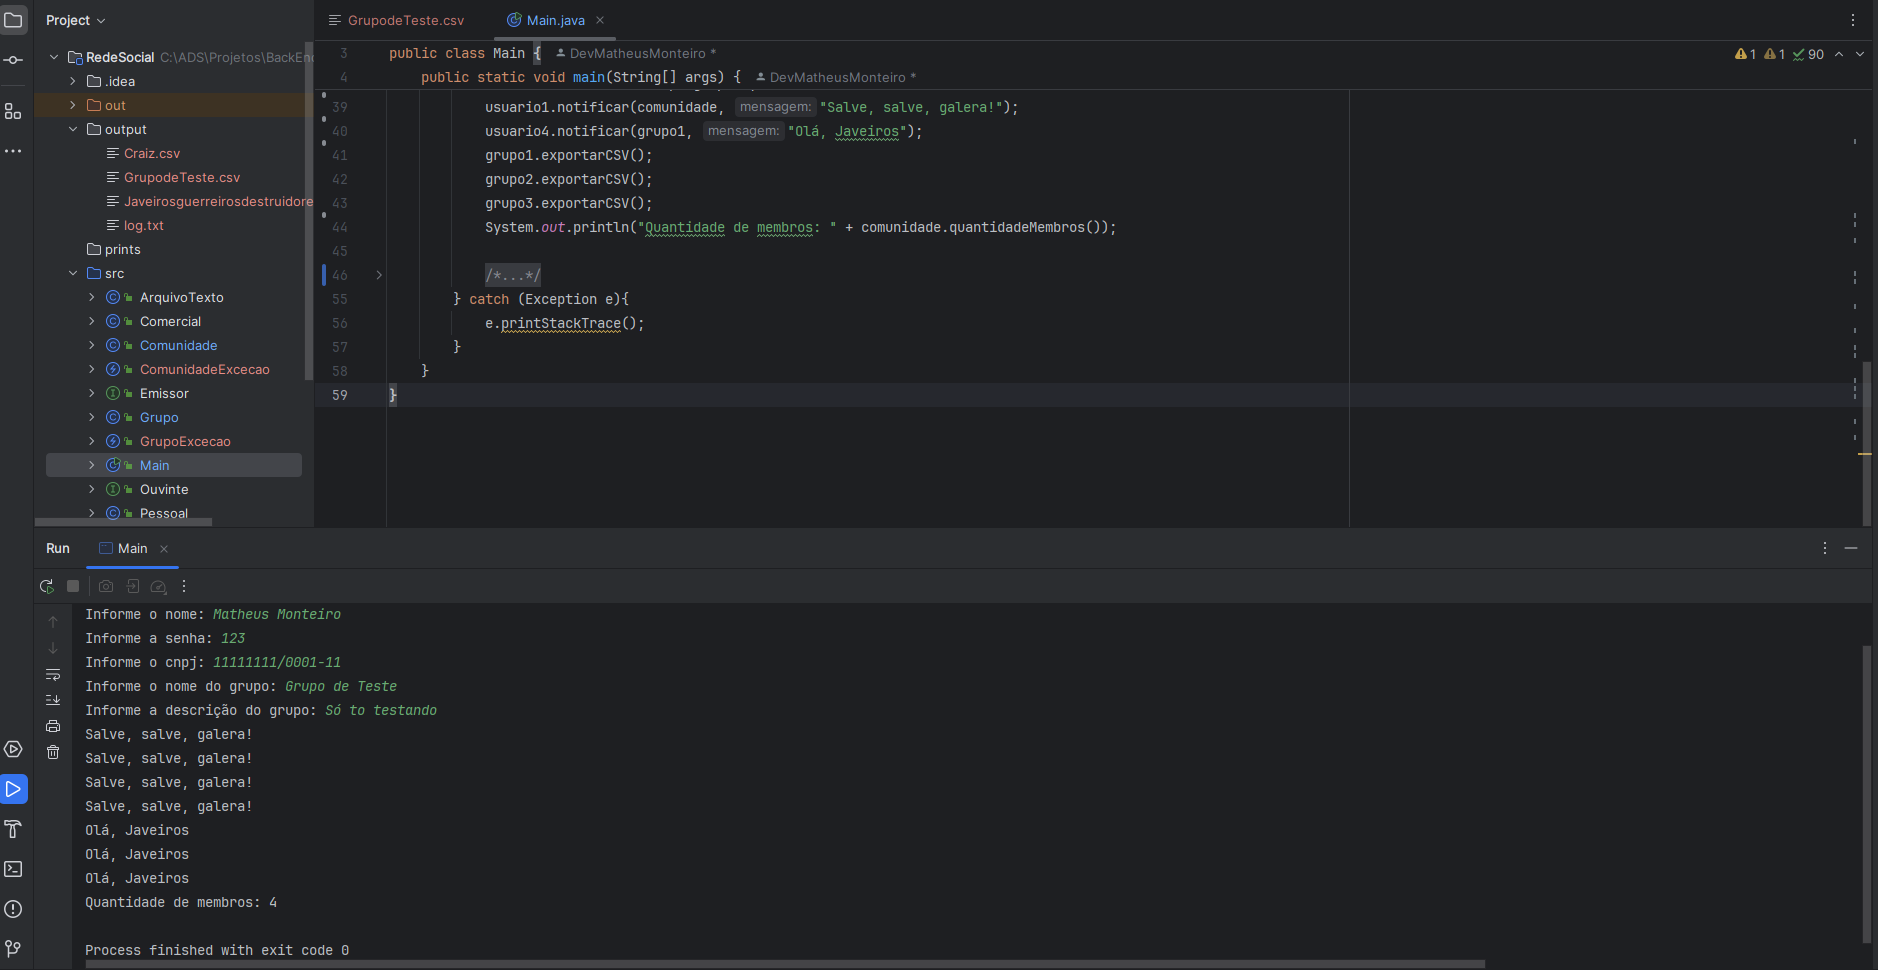
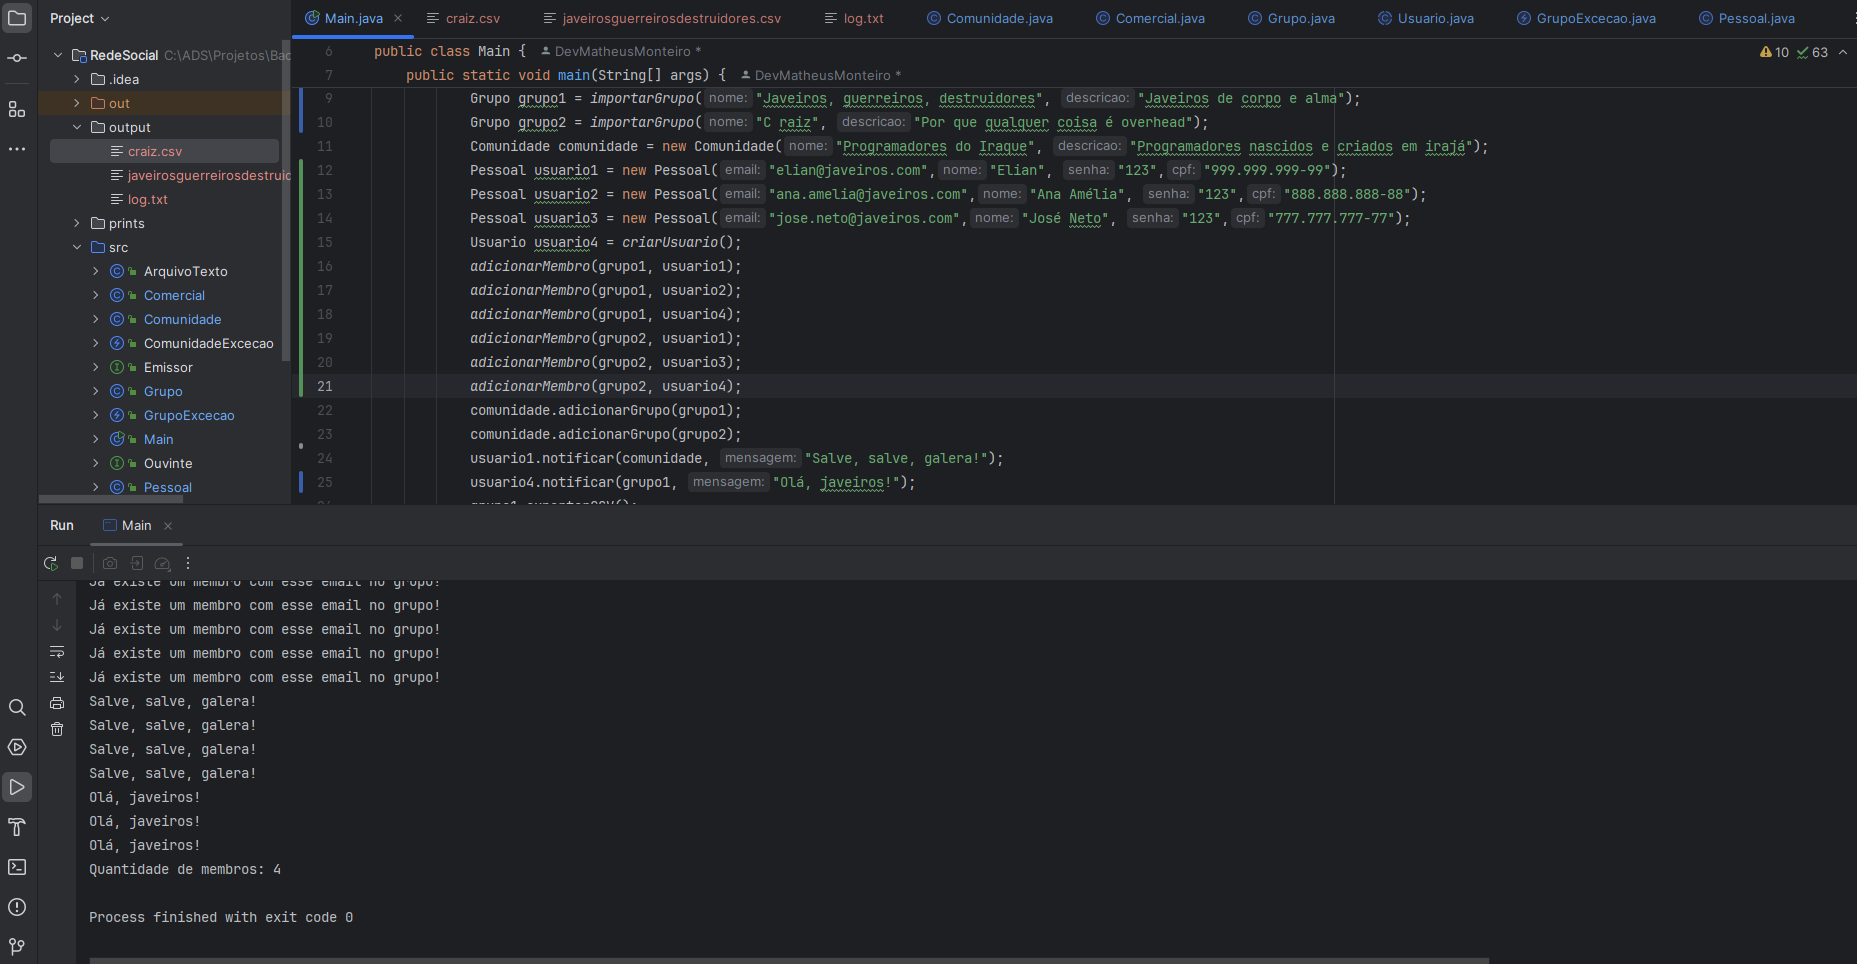
refactoring exportCSV and exceptions

diff --git a/src/Main.java b/src/Main.java
@@ -1,59 +1,149 @@
+import javax.xml.crypto.dsig.spec.XSLTTransformParameterSpec;
+import java.io.IOException;
+import java.util.InputMismatchException;
 import java.util.Scanner;
 
 public class Main {
     public static void main(String[] args) {
-
         try {
-            Pessoal usuario1 = new Pessoal("elian@javeiros.com","Elian", "123", "999.999.999-99");
-            Pessoal usuario2 = new Pessoal("ana.amelia@javeiros.com","Ana Amélia", "123", "888.888.888-88");
-            Pessoal usuario3 = new Pessoal("jose.neto@javeiros.com","José Neto", "123", "777.777.777-77");
-            Scanner sc = new Scanner(System.in);
-            System.out.print("Informe o email: ");
-            String email = sc.nextLine();
-            System.out.print("Informe o nome: ");
-            String nome = sc.nextLine();
-            System.out.print("Informe a senha: ");
-            String senha = sc.nextLine();
-            System.out.print("Informe o cnpj: ");
-            String cnpj = sc.nextLine();
-            Comercial usuario4 = new Comercial(email,nome, senha, cnpj);
-            Grupo grupo1 = new Grupo("Javeiros, guerreiros, destruidores", "Javeiros de corpo e alma");
-            Grupo grupo2 = new Grupo("C raiz", "Porque qualquer outra coisa é overhead");
-            System.out.print("Informe o nome do grupo: ");
-            String nomeGrupo = sc.nextLine();
-            System.out.print("Informe a descrição do grupo: ");
-            String descricaoGrupo = sc.nextLine();
-            Grupo grupo3 = new Grupo(nomeGrupo, descricaoGrupo);
-            grupo1.adicionarMembro(usuario1);
-            grupo1.adicionarMembro(usuario2);
-            grupo1.adicionarMembro(usuario4);
-            grupo2.adicionarMembro(usuario1);
-            grupo2.adicionarMembro(usuario3);
-            grupo2.adicionarMembro(usuario4);
-            grupo3.adicionarMembro(usuario3);
-            grupo3.adicionarMembro(usuario4);
+            Grupo grupo1 = importarGrupo("Javeiros, guerreiros, destruidores", "Javeiros de corpo e alma");
+            Grupo grupo2 = importarGrupo("C raiz", "Por que qualquer coisa é overhead");
             Comunidade comunidade = new Comunidade("Programadores do Iraque", "Programadores nascidos e criados em irajá");
+            Pessoal usuario1 = new Pessoal("elian@javeiros.com","Elian", "123","999.999.999-99");
+            Pessoal usuario2 = new Pessoal("ana.amelia@javeiros.com","Ana Amélia", "123","888.888.888-88");
+            Pessoal usuario3 = new Pessoal("jose.neto@javeiros.com","José Neto", "123","777.777.777-77");
+            Usuario usuario4 = criarUsuario();
+            adicionarMembro(grupo1, usuario1);
+            adicionarMembro(grupo1, usuario2);
+            adicionarMembro(grupo1, usuario4);
+            adicionarMembro(grupo2, usuario1);
+            adicionarMembro(grupo2, usuario3);
+            adicionarMembro(grupo2, usuario4);
             comunidade.adicionarGrupo(grupo1);
             comunidade.adicionarGrupo(grupo2);
-            comunidade.adicionarGrupo(grupo3);
             usuario1.notificar(comunidade, "Salve, salve, galera!");
-            usuario4.notificar(grupo1, "Olá, Javeiros");
+            usuario4.notificar(grupo1, "Olá, javeiros!");
             grupo1.exportarCSV();
             grupo2.exportarCSV();
-            grupo3.exportarCSV();
             System.out.println("Quantidade de membros: " + comunidade.quantidadeMembros());
-
-            /*Comunidade comunidade = new Comunidade("Programadores do Iraque", "Programadores nascidos e criados em irajá");
-            Grupo javeiros = new Grupo("Javeiros guerreiros destruidores", "Javeiros de corpo e alma");
-            javeiros.importarCSV();
-            Grupo cRaiz = new Grupo("C raiz", "Porque qualquer outra coisa é overhead");
-            cRaiz.importarCSV();
-            comunidade.adicionarGrupo(javeiros);
-            comunidade.adicionarGrupo(cRaiz);
-            javeiros.membros.get(0).notificar(comunidade, "Salve salve, galerinhaaa");
-            System.out.println("Quantidade de membros: " + comunidade.quantidadeMembros());*/
-        } catch (Exception e){
+        } catch (GrupoExcecao e){
+            e.printStackTrace();
+        } catch (ComunidadeExcecao e){
+            e.printStackTrace();
+        } catch (UsuarioExcecao e) {
+            e.printStackTrace();
+        } catch (IOException e) {
             e.printStackTrace();
         }
+    }
+    static Grupo importarGrupo(String nome, String descricao) throws GrupoExcecao, UsuarioExcecao {
+        Grupo grupo = new Grupo(nome, descricao);
+        try {
+            grupo.importarCSV();
+        } catch (IOException e){
+            System.out.println("Grupo " + nome + " não existe!");
+        }
+        return grupo;
+    }
+    static void adicionarMembro(Grupo grupo, Usuario usuario){
+        try {
+            grupo.adicionarMembro(usuario);
+        } catch (GrupoExcecao e){
+            System.out.println(e.getMessage());
+        }
+    }
+    static String entrarTexto(String mensagem) {
+        Scanner sc = new Scanner(System.in);
+        System.out.print(mensagem);
+        return sc.nextLine();
+    }
+    static int entrarNumeroInteiro(String mensagem) {
+        do {
+            try {
+                Scanner sc = new Scanner(System.in);
+                System.out.print(mensagem);
+                int numero = sc.nextInt();
+                return numero;
+            } catch (InputMismatchException e) {
+                System.out.println("Formato inválido!");
+            }
+        } while (true);
+    }
+
+    static void entrarNomeUsuario(Usuario usuario) {
+        do {
+            try {
+                usuario.setNome(entrarTexto("Entre com o nome: "));
+                return;
+            } catch (UsuarioExcecao e) {
+                System.out.println(e.getMessage());
+            }
+        } while (true);
+    }
+    static void entrarEmailUsuario(Usuario usuario) {
+        do {
+            try {
+                usuario.setEmail(entrarTexto("Entre com o email: "));
+                return;
+            } catch (UsuarioExcecao e) {
+                System.out.println(e.getMessage());
+            }
+        } while (true);
+    }
+    static void entrarSenhaUsuario(Usuario usuario) {
+        do {
+            try {
+                usuario.setSenha(entrarTexto("Entre com a senha: "));
+                return;
+            } catch (UsuarioExcecao e) {
+                System.out.println(e.getMessage());
+            }
+        } while (true);
+    }
+    static void entrarCpfUsuario(Pessoal usuario) {
+        do {
+            try {
+                usuario.setCpf(entrarTexto("Entre com o CPF: "));
+                return;
+            } catch (UsuarioExcecao e) {
+                System.out.println(e.getMessage());
+            }
+        } while (true);
+    }
+    static void entrarCnpjUsuario(Comercial usuario) {
+        do {
+            try {
+                usuario.setCnpj(entrarTexto("Entre com o CNPJ: "));
+                return;
+            } catch (UsuarioExcecao e) {
+                System.out.println(e.getMessage());
+            }
+        } while (true);
+    }
+    static Usuario criarUsuario() {
+        int opcao;
+        Usuario usuario = null;
+        do {
+            opcao = entrarNumeroInteiro("1 - Conta Pessoal\n2 - Conta Comercial\nEscolha: ");
+            switch (opcao){
+                case 1:
+                    usuario = new Pessoal();
+                    entrarEmailUsuario(usuario);
+                    entrarNomeUsuario(usuario);
+                    entrarSenhaUsuario(usuario);
+                    entrarCpfUsuario((Pessoal) usuario);
+                    break;
+                case 2:
+                    usuario = new Comercial();
+                    entrarEmailUsuario(usuario);
+                    entrarNomeUsuario(usuario);
+                    entrarSenhaUsuario(usuario);
+                    entrarCnpjUsuario((Comercial) usuario);
+                    break;
+                default:
+                    System.out.println("Opção inválida!");
+            }
+        } while (!(opcao == 1 || opcao == 2));
+        return usuario;
     }
 }

diff --git a/src/Grupo.java b/src/Grupo.java
@@ -28,18 +28,16 @@ public class Grupo implements Ouvinte {
     public String getNome() {
         return nome;
     }
-
     public void setNome(String nome) throws GrupoExcecao{
         GrupoExcecao.verificarNomeVazioOuNulo(nome);
 
         this.nome = nome;
     }
-
     public List<Usuario> getMembros() {
         return membros;
     }
-
-    public void adicionarMembro(Usuario membro) {
+    public void adicionarMembro(Usuario membro) throws GrupoExcecao{
+        GrupoExcecao.verificaMembroExistente(membros, membro);
         membros.add(membro);
     }
 
@@ -53,14 +51,13 @@ public class Grupo implements Ouvinte {
                 membro.receber(mensagem);
             }
         }
-
     }
 
-    public void exportarCSV() {
+    public void exportarCSV() throws IOException {
         try {
             String[] nomeArquivo = nome.replace(",", "").replace(".", "").replace(";", "").split(" ");
 
-            BufferedWriter bw = new BufferedWriter(new FileWriter(String.format("output/%s.csv", String.join("", nomeArquivo)), true));
+            BufferedWriter bw = new BufferedWriter(new FileWriter(String.format("output/%s.csv", String.join("", nomeArquivo).toLowerCase())));
 
             for (Usuario membro : membros) {
                 if (membro instanceof Pessoal){
@@ -77,17 +74,16 @@ public class Grupo implements Ouvinte {
                             "," + ((Comercial) membro).getCnpj() + "\n");
                 }
             }
-
             bw.close();
         } catch (IOException e) {
-            throw new RuntimeException(e);
+            throw new IOException(e.getMessage());
         }
     }
 
-    public void importarCSV() {
+    public void importarCSV() throws UsuarioExcecao, IOException {
         try {
             String[] nomeArquivo = nome.replace(",", "").replace(".", "").replace(";", "").split(" ");
-            BufferedReader br = new BufferedReader(new FileReader(String.format("output/%s.csv", String.join("", nomeArquivo))));
+            BufferedReader br = new BufferedReader(new FileReader(String.format("output/%s.csv", String.join("", nomeArquivo).toLowerCase())));
 
             String linha;
             String[] colunas;
@@ -95,17 +91,18 @@ public class Grupo implements Ouvinte {
                 colunas = linha.split(",");
 
                 if (colunas[0].equals("Pessoal")){
-                    adicionarMembro(new Pessoal(colunas[1], colunas[2], colunas[3], colunas[4]));
+                    membros.add(new Pessoal(colunas[1], colunas[2], colunas[3], colunas[4]));
                 } else {
-                    adicionarMembro(new Comercial(colunas[1], colunas[2], colunas[3], colunas[4]));
+                    membros.add(new Comercial(colunas[1], colunas[2], colunas[3], colunas[4]));
                 }
             }
 
             br.close();
-        } catch (IOException | UsuarioExcecao e) {
-            throw new RuntimeException(e);
+        } catch (IOException e) {
+            throw new IOException(e.getMessage());
+        } catch (UsuarioExcecao e){
+            throw new UsuarioExcecao(e.getMessage());
         }
-
     }
 
     public String toString() {

diff --git a/src/Comunidade.java b/src/Comunidade.java
@@ -43,10 +43,8 @@ public class Comunidade implements Ouvinte {
     public void removerGrupo(Grupo grupo) {
         grupos.remove(grupo);
     }
-
     public int quantidadeMembros() {
         List<String> emails = new ArrayList<>();
-
         for(int i = 0; i < grupos.size(); i++) {
             for(Usuario membro : grupos.get(i).getMembros()){
                 if(!emails.contains(membro.getEmail())){
@@ -54,13 +52,11 @@ public class Comunidade implements Ouvinte {
                 }
             }
         }
-
         return emails.size();
     }
 
     public void receber(String mensagem) {
         List<String> emails = new ArrayList<>();
-
         for(int i = 0; i < grupos.size(); i++) {
             if(i != 0) {
                 for(Usuario membro : grupos.get(i).getMembros()){
@@ -69,7 +65,7 @@ public class Comunidade implements Ouvinte {
                         membro.receber(mensagem);
                     }
                 }
-            } else{
+            } else {
                 grupos.get(i).receber(mensagem);
                 for(Usuario membro : grupos.get(i).getMembros()) {
                     emails.add(membro.getEmail());

diff --git a/src/GrupoExcecao.java b/src/GrupoExcecao.java
@@ -1,3 +1,5 @@
+import java.util.List;
+
 public class GrupoExcecao extends Exception {
     public GrupoExcecao(String mensagem) {
         super(mensagem);
@@ -6,5 +8,10 @@ public class GrupoExcecao extends Exception {
     public static void verificarNomeVazioOuNulo(String nome) throws GrupoExcecao {
         if (nome == null || nome.isEmpty())
             throw new GrupoExcecao("Nome não pode ser vazio ou nulo");
+    }
+    public static void verificaMembroExistente(List<Usuario> membros, Usuario membro) throws GrupoExcecao {
+        if(membros.contains(membro)){
+            throw new GrupoExcecao("Já existe um membro com esse email no grupo!");
+        }
     }
 }

diff --git a/src/Comercial.java b/src/Comercial.java
@@ -1,16 +1,17 @@
 public class Comercial extends Usuario{
     private String cnpj;
+    public Comercial() {
 
+    }
     public Comercial(String email, String nome, String senha, String cnpj) throws UsuarioExcecao {
         super(email, nome, senha);
         this.cnpj = cnpj;
     }
-
     public String getCnpj() {
         return cnpj;
     }
-
-    public void setCnpj(String cnpj) {
+    public void setCnpj(String cnpj) throws UsuarioExcecao {
+        UsuarioExcecao.verificarStringVaziaOuNula(cnpj, "CNPJ não pode ser vazio ou nulo");
         this.cnpj = cnpj;
     }
 }

diff --git a/src/Pessoal.java b/src/Pessoal.java
@@ -1,16 +1,15 @@
 public class Pessoal extends Usuario{
     private String cpf;
-
+    public Pessoal() {}
     public Pessoal(String email, String nome, String senha, String cpf) throws UsuarioExcecao {
         super(email, nome, senha);
         this.cpf = cpf;
     }
-
     public String getCpf() {
         return cpf;
     }
-
-    public void setCpf(String cpf) {
+    public void setCpf(String cpf) throws UsuarioExcecao {
+        UsuarioExcecao.verificarStringVaziaOuNula(cpf, "CPF não pode ser vazio ou nulo");
         this.cpf = cpf;
     }
 }

diff --git a/src/Usuario.java b/src/Usuario.java
@@ -7,10 +7,16 @@ public abstract class Usuario implements Emissor, Ouvinte {
     private String email;
     private String senha;
 
+    public Usuario() {}
+
     public Usuario(String email, String nome, String senha) throws UsuarioExcecao {
         setEmail(email);
         setNome(nome);
         setSenha(senha);
+    }
+
+    public boolean equals(Object usuario) {
+        return this.email.equals(((Usuario) usuario).getEmail());
     }
 
     public String getEmail() {
